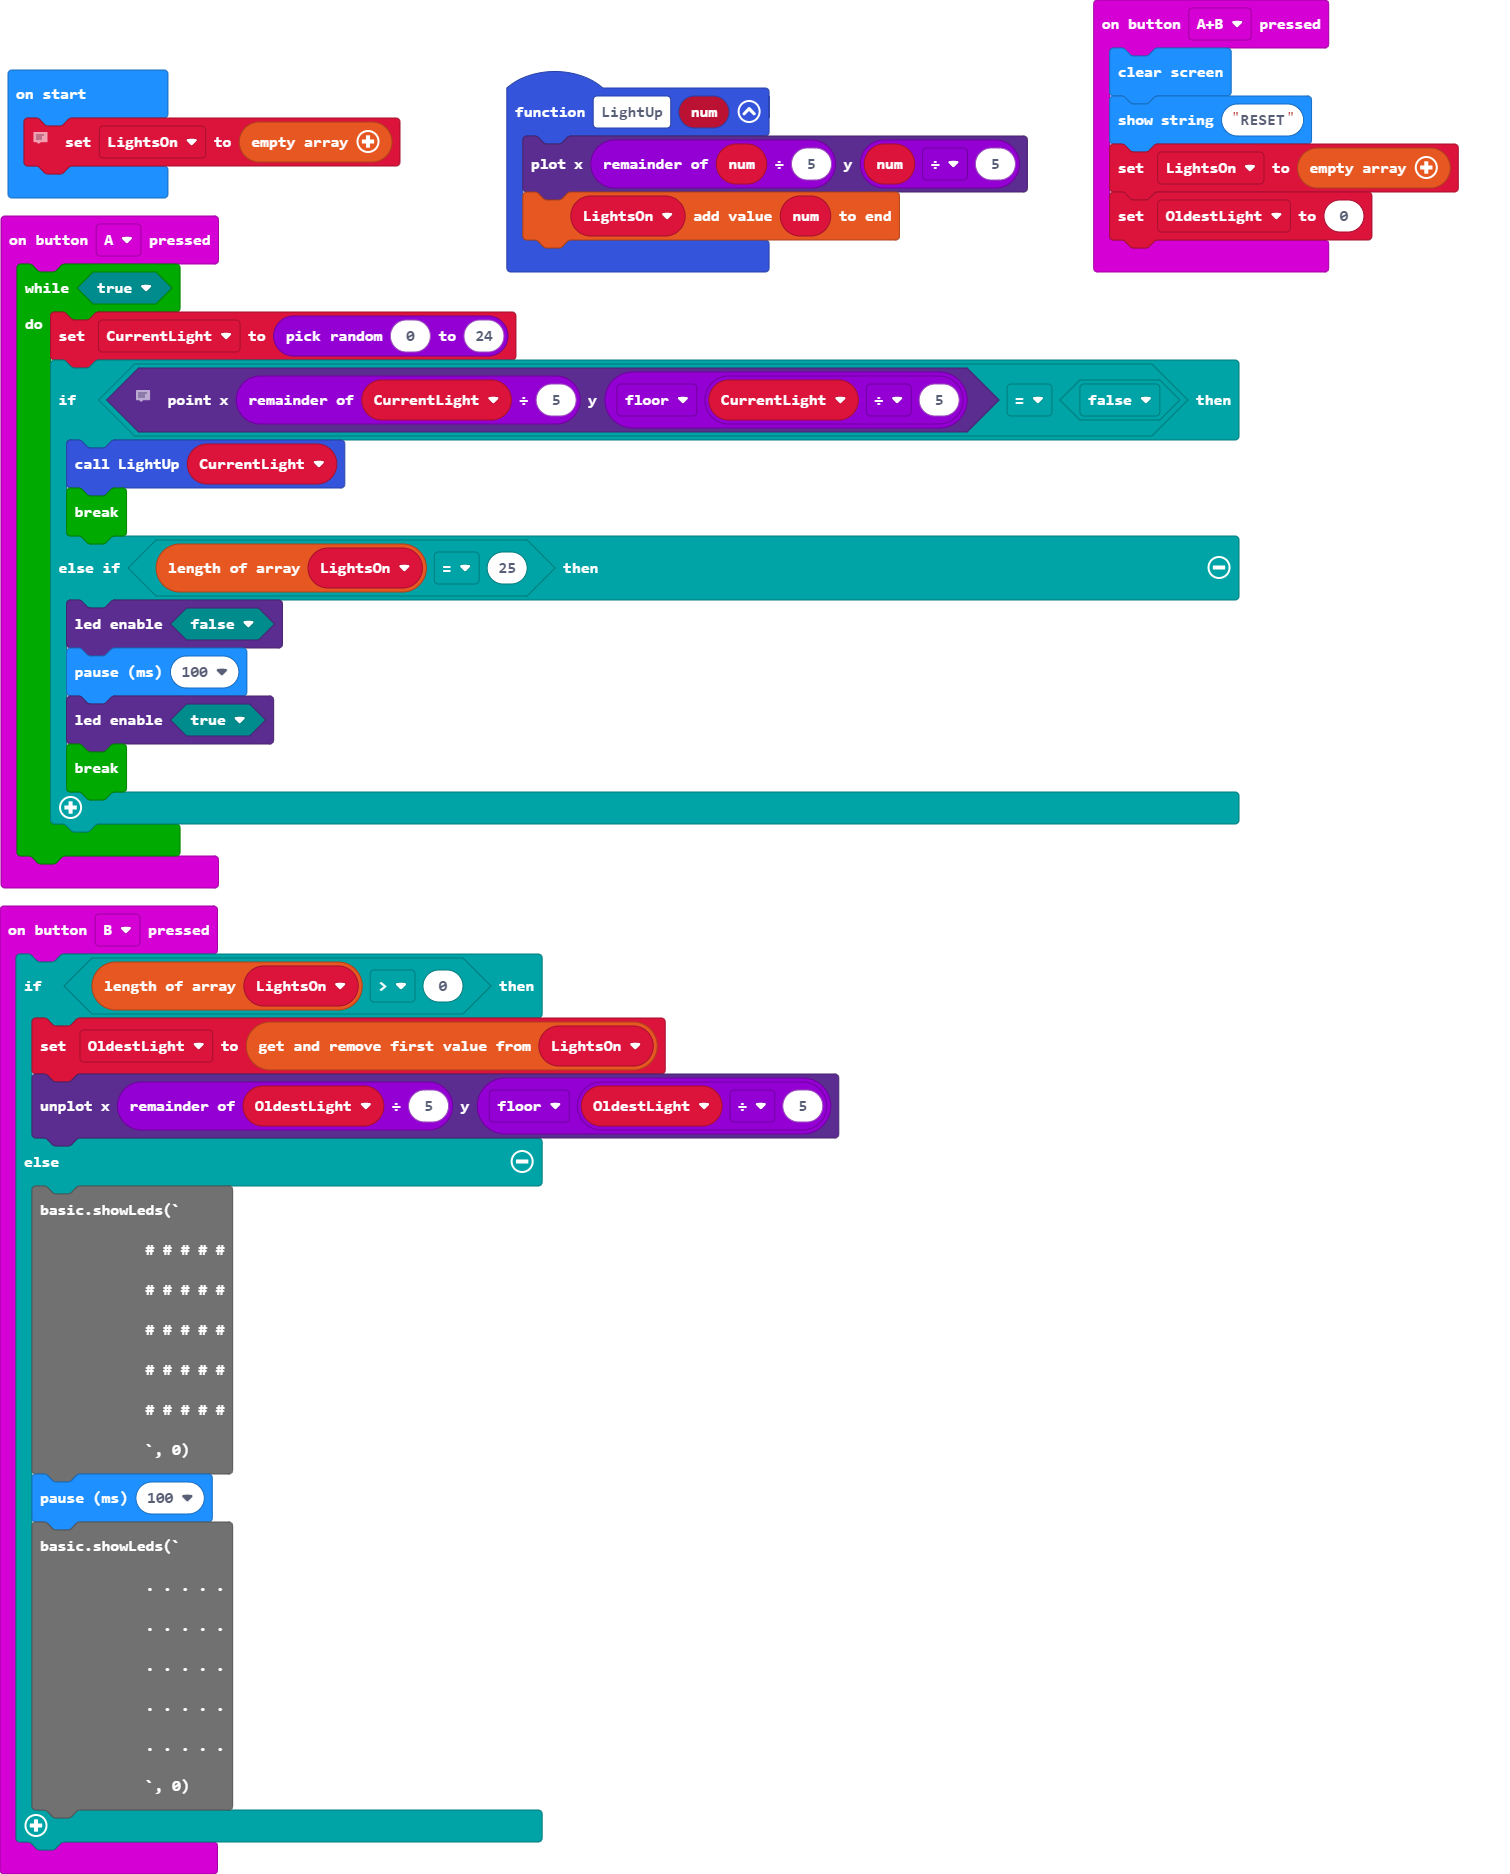
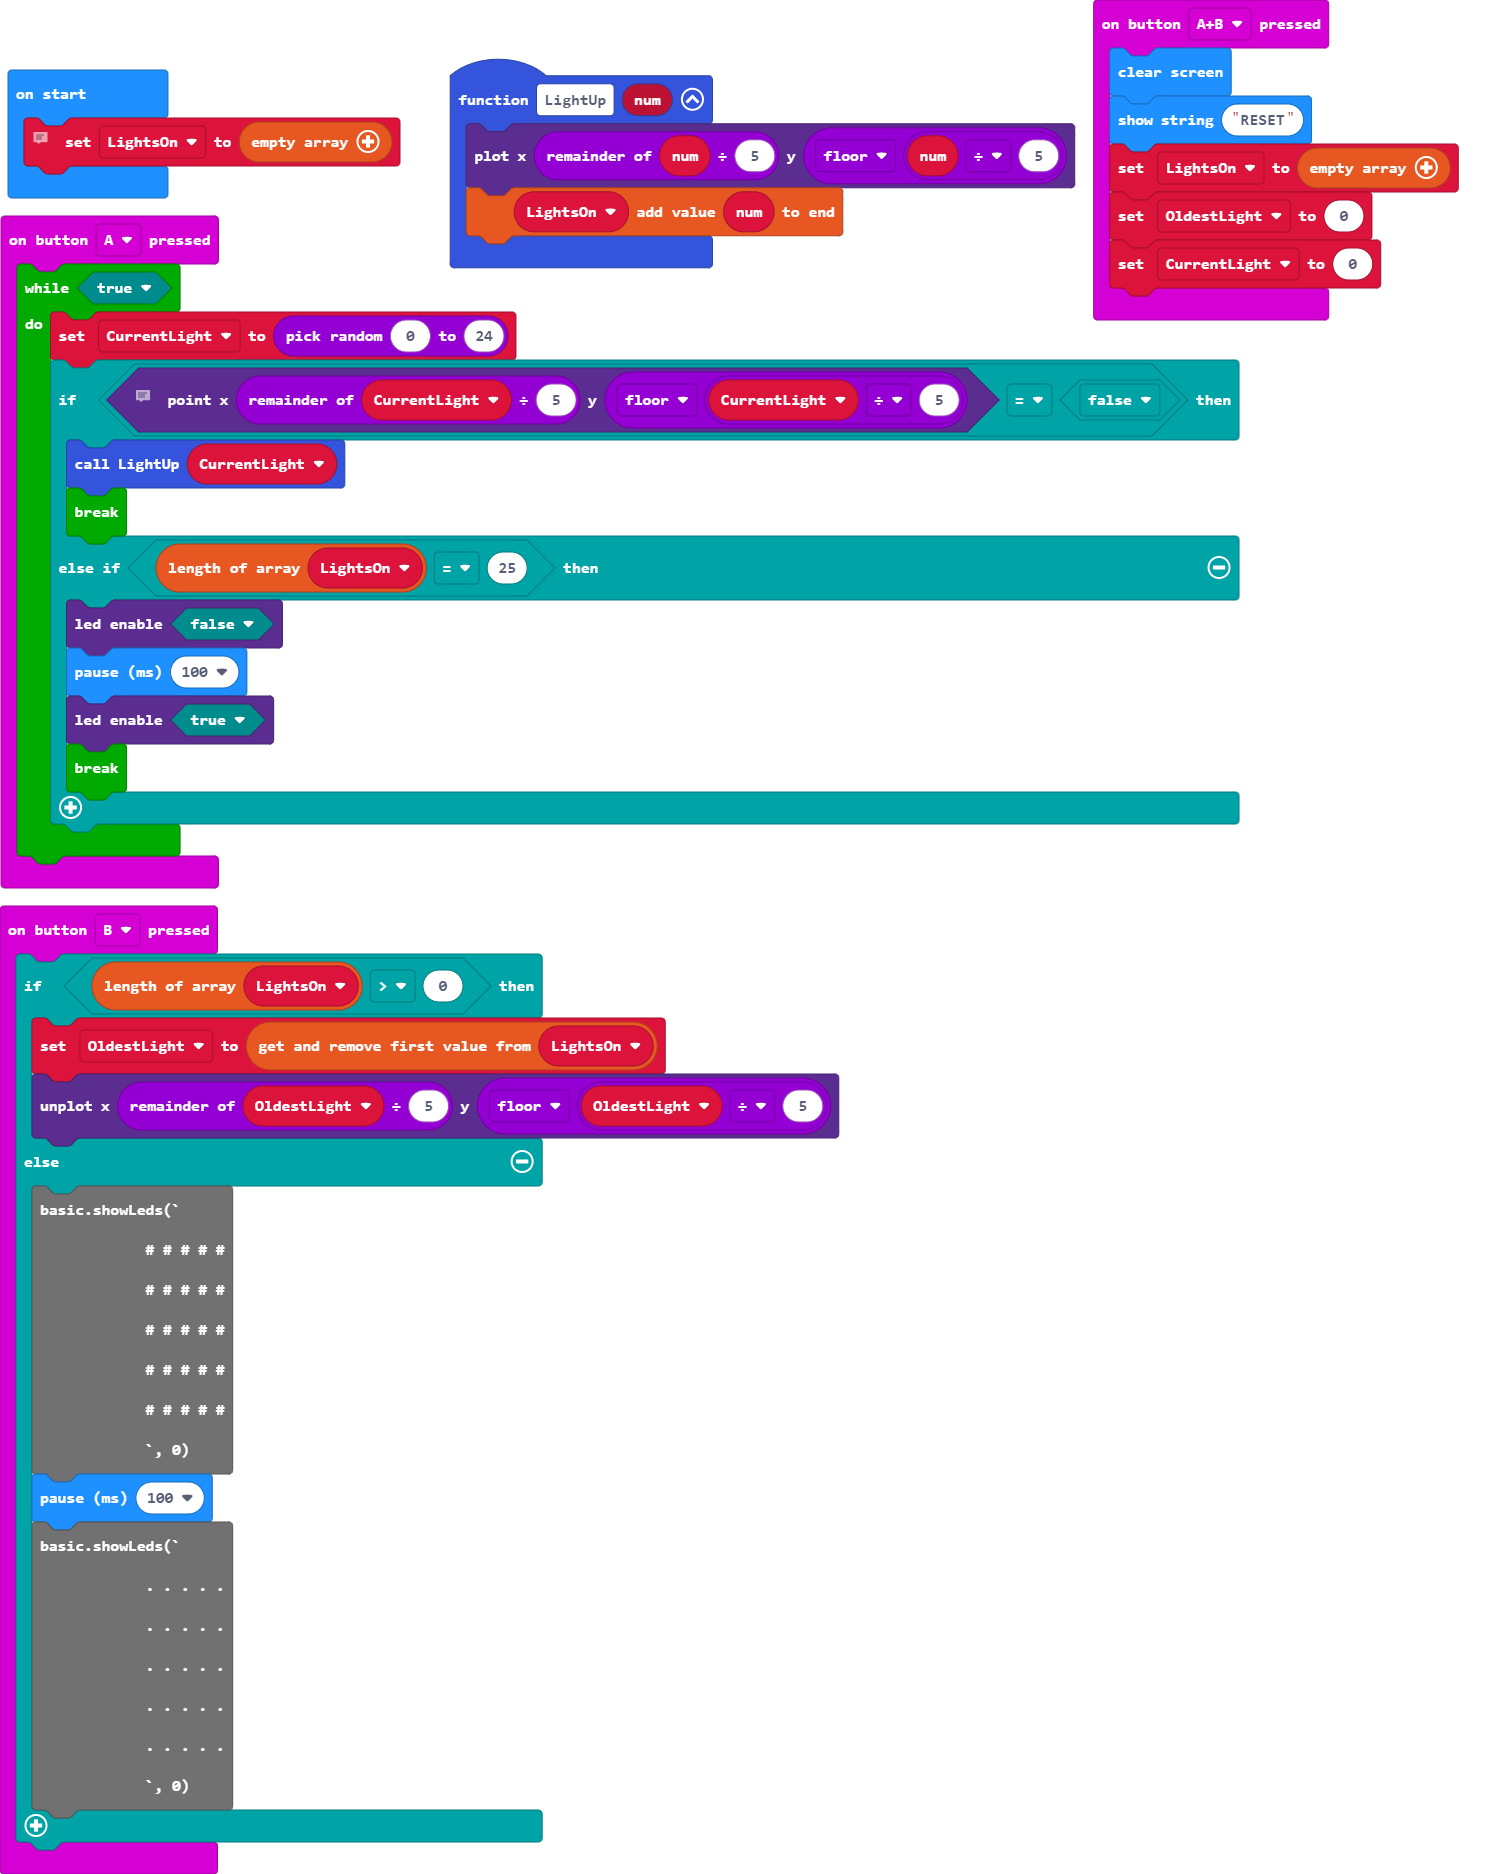
Added floor in LightUp and cleared CurrentLight on reset

Changed region(s): [[0.2801, 0.0309, 0.7159, 0.1547], [0.7159, 0.1238, 0.9338, 0.1857]]

diff --git a/main.ts b/main.ts
@@ -1,5 +1,5 @@
 function LightUp (num: number) {
-    led.plot(num % 5, num / 5)
+    led.plot(num % 5, Math.floor(num / 5))
     LightsOn.push(num)
 }
 input.onButtonPressed(Button.A, function () {
@@ -22,6 +22,7 @@ input.onButtonPressed(Button.AB, function () {
     basic.showString("RESET")
     LightsOn = []
     OldestLight = 0
+    CurrentLight = 0
 })
 input.onButtonPressed(Button.B, function () {
     if (LightsOn.length > 0) {
